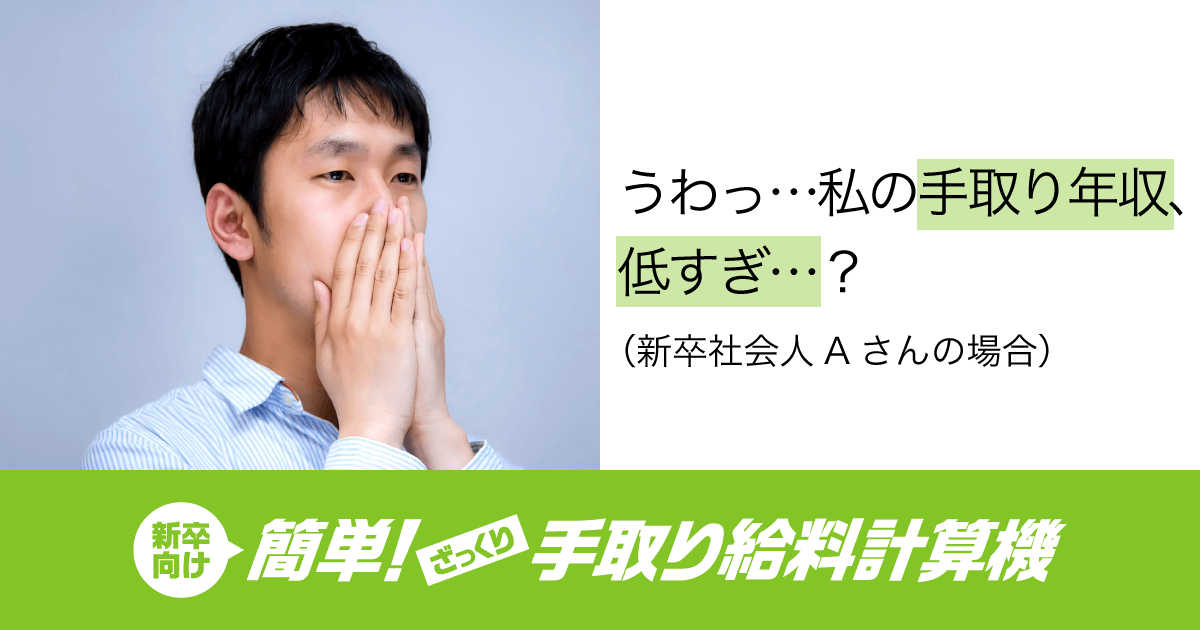
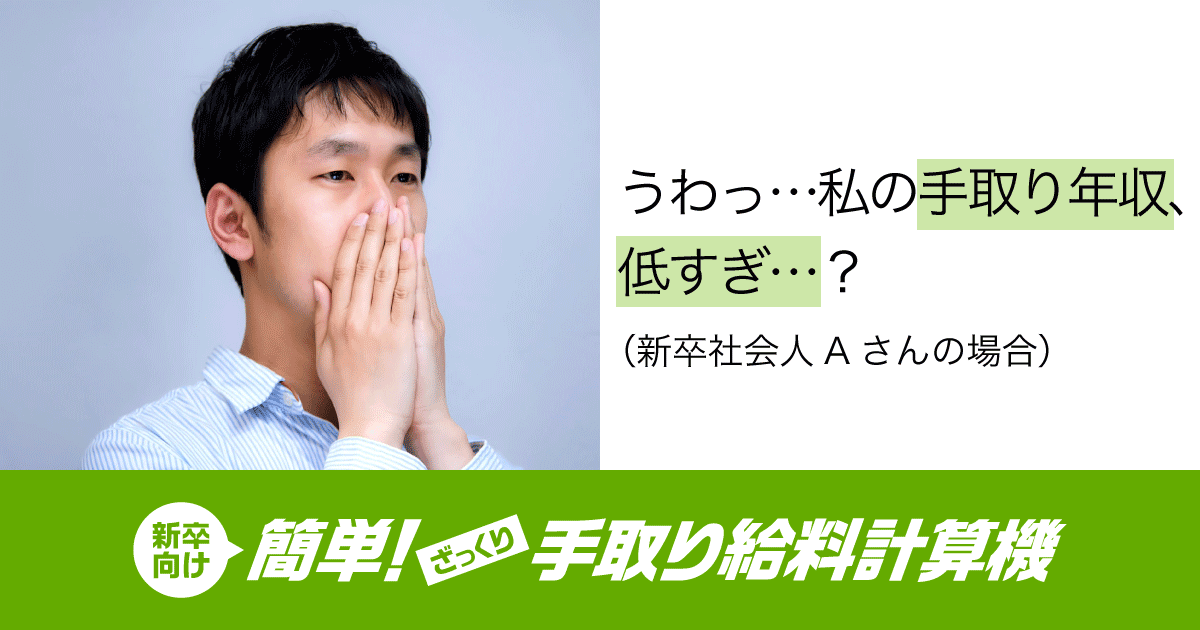
デザインのメインカラー変更と結果の見出しデザインの修正

Changed region(s): [[0.0, 0.6937, 1.0, 1.0]]

diff --git a/index.html b/index.html
@@ -12,7 +12,7 @@
 	<meta charset="UTF-8">
   <meta name="viewport" content="width=device-width, initial-scale=1.0, minimum-scale=1.0, maximum-scale=1.0, user-scalable=no">
   <title>簡単！ザックリ手取り給料計算機</title>
-  <link rel='stylesheet' href='./assets/css/main.css?20181206' type='text/css' media='all' />
+  <link rel='stylesheet' href='./assets/css/main.css?20181206v3' type='text/css' media='all' />
   <!-- Favicon設定 -->
   <link href="./assets/img/favicon.ico" rel="shortcut icon">
   <!-- OGP設定 -->
@@ -580,6 +580,6 @@
 <script src="./assets/js/Chart.min.js"></script>
 <script src="./assets/js/plugin.js"></script>
 <script src="./assets/js/modal.js"></script>
-<script src="./assets/js/output.min.js?20181206"></script>
+<script src="./assets/js/output.min.js?20181206v3"></script>
 </body>
 </html>

diff --git a/sass/_define.scss b/sass/_define.scss
@@ -14,7 +14,7 @@ $base-url: "https://oguemon.com/wordpress/wp-content/themes/oguemon";
 $splite-url: "#{$base-url}/img/splite.svg";
 
 // 色関係
-$theme-color: #83c426;
+$theme-color: #64ab00;
 $accent-color: #ff8615;
 $white-color: #fff;
 $black-color: #555;

diff --git a/sass/_body.scss b/sass/_body.scss
@@ -145,10 +145,10 @@ main {
   }
 
   .header {
-    margin: 15px;
-    color: #83c426;
+    margin: 15px 10px;
+    color: $theme-color;
     font-size: 180%;
-    font-weight: normal;
+    font-weight: bold;
   }
 
   .main-value-line {
